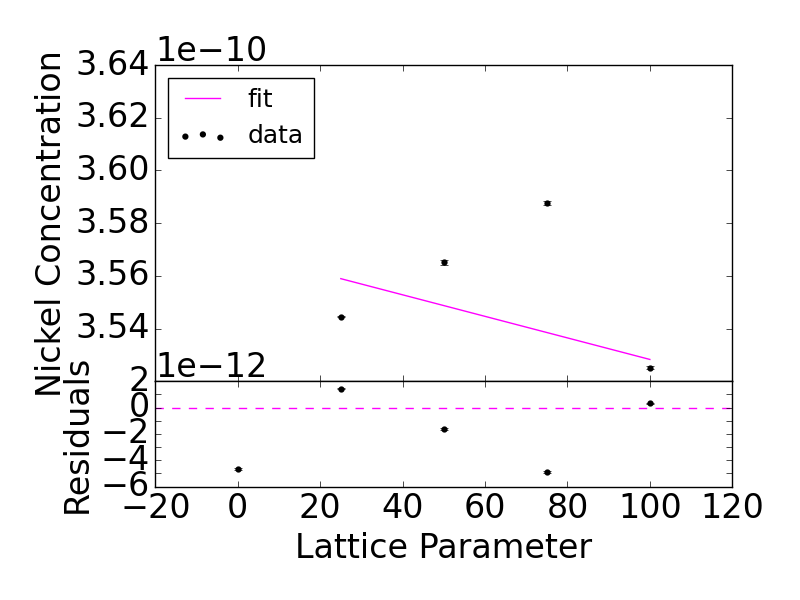
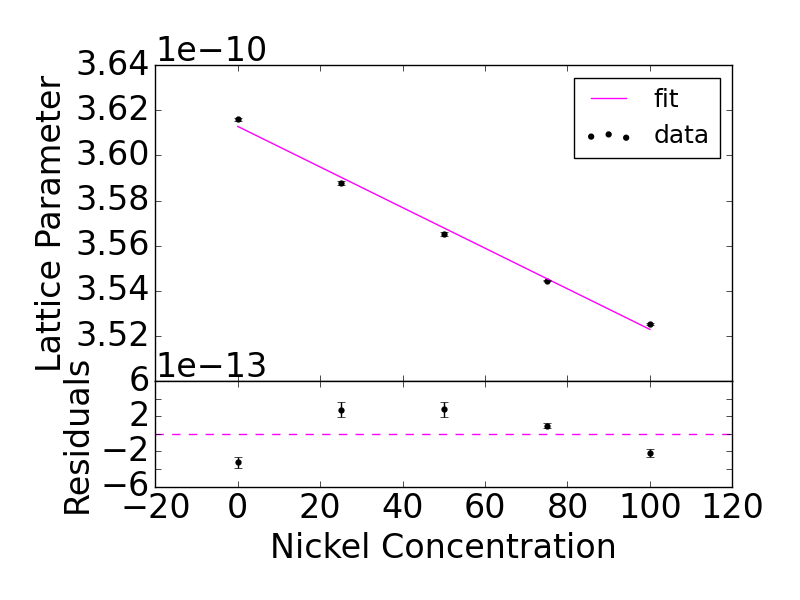
modified plotting

diff --git a/x.py b/x.py
@@ -164,21 +164,15 @@ def fitter(filename, windows):
     peaks_data['line_chi'] = chi_sqd
     return peaks_data
 
-def full_anal(path_, bins, print=False):
-    if os.path.exists(path_):
-        print("DAFUQQQQ")
-    else:
-        print("makes sense")
+def full_anal(path_, bins, print_=False):
     filenames = os.listdir(path_)
-    print(filenames)
     filenames = list(map(lambda x: x.split(".")[0], filenames))
-    print(type(filenames))
     # filenames = ["Cu_03_09_20", "Cu75Ni25","Cu50Ni50","Cu25Ni75", "Ni_03_09_20"]
     total_data = {}
     for i in range(len(filenames)):
         total_data['{}'.format(filenames[i])] = (fitter(filenames[i], bins[i]))
     # print(total_data)
-    if print:
+    if print_:
         try:
             import pprint 
             pp = pprint.PrettyPrinter(indent=4)
@@ -188,7 +182,6 @@ def full_anal(path_, bins, print=False):
     
     
     y_data = [[],[]]
-    print(type(filenames))
     for name in filenames:
         y_data[0].append(total_data[name]["line_popt"][0])
         y_data[1].append(total_data[name]["line_unc"][0])
@@ -199,22 +192,22 @@ def full_anal(path_, bins, print=False):
     #                     [361.49e-12, 352.4e-12],
     #                     ['Litterature']]
     # spify.lattice_alloy_plot(plot_data, plot_litterature, 'Cu-Ni')
-    x = np.array([25,50,75,0, 100] ,dtype = float)
+    x = np.array([0,75,50,25, 100] ,dtype = float)
     popt,pcov = curve_fit(line,x,y_data[0], p0= [1,1], sigma=y_data[1])
 
     chi_sqd = np.sum((y_data[0] -line(np.array(x), *popt))**2/y_data[1]**2)/len(y_data[0]-2)
 
     spify.residual_plot(x, y_data[0], y_data[1],
-                        line, popt, "Lattice Parameter","Nickel Concentration","Residuals", 
-                        path_[-15:] + "_vegard")
+                        line, popt,"Nickel Concentration", "Lattice Parameter","Residuals", 
+                        path_[-15:] + "_vegard", legend_loc = "upper right")
 
 if __name__ == '__main__':
-    copper_bins = [[[41.5,49],[48,56],[72,80],[88,95], [95,101]],
+    copper_bins = [[[41.5,45.5],[48,53],[72,77],[88,93], [93,98]],
+            [[41.5,49],[48,56],[72,80],[88,95], [95,101]],
             [[41.5,48],[48,56],[72,80],[88,95], [94,100]],
             [[41.5,47],[48,56],[72,80],[87,94], [95,99]],
-            [[41.5,45.5],[48,53],[72,77],[88,93], [93,98]],
             [[41.5,50],[48,56],[72,80],[90,96], [97,101]]]
-    full_anal('X-Ray/data/copper_nickel_series', copper_bins, print=True)
+    full_anal('X-Ray/data/copper_nickel_series', copper_bins, print_=True)
     
 
 

diff --git a/spify.py b/spify.py
@@ -2,7 +2,7 @@ import matplotlib.pyplot as plt
 import numpy as np
 
 
-def residual_plot(x,data,noise,func,params, xlabel, ylabel1,ylabel2, filename, renorm = False):
+def residual_plot(x,data,noise,func,params, xlabel, ylabel1,ylabel2, filename, renorm = False, legend_loc = 'upper left'):
     #get spify
     plt.clf()
     plt.rcParams.update({'font.size': 24})
@@ -27,7 +27,7 @@ def residual_plot(x,data,noise,func,params, xlabel, ylabel1,ylabel2, filename, r
     axs[0].scatter(x, data, label="data", marker=".", s=25, c="black", linewidth=2)
     axs[0].errorbar(x, data, yerr = noise, linestyle="", c="black")
     
-    axs[0].legend(loc = 'upper left', fontsize = 18)
+    axs[0].legend(loc = legend_loc, fontsize = 18)
     axs[1].scatter(x, y_pred-data, marker=".", s=25, c="black" , linewidth= 2)
     axs[1].errorbar(x, y_pred-data, yerr = noise, linestyle="", c="black")
     axs[1].axhline(y=0,c="magenta", linestyle="--")

diff --git a/Archive/Scattering/scripts/gaussian_fitter.py b/Archive/Scattering/scripts/gaussian_fitter.py
@@ -83,7 +83,7 @@ def reverse_line(x,a,b):
 def line(x,a,b):
     return a*x+b
 
-def line_fit(points_y, litterature, angle, plot = True):
+def line_fit(points_y, litterature, angle, plot = True, legend_location = ):
     '''
     Takes in
     points_y: calibration data and uncertainty
@@ -113,7 +113,7 @@ def line_fit(points_y, litterature, angle, plot = True):
                      (litterature[0][2]-40, points_y[:,0][2]-100),(litterature[0][0], points_y[:,0][0]-50)]
         for i, txt in enumerate(n):
             axs[0].annotate(txt, positions[i], fontsize=14)
-        axs[0].legend(loc = 'upper left', fontsize = 14)
+        axs[0].legend(loc = legend_location, fontsize = 14)
         #plot the residuals
         linspace = np.linspace(np.min(litterature[0]),np.max(litterature[0]),1000)
         axs[1].scatter(litterature[0],points_y[:,0]-reverse_line(litterature[0], *popt),  marker = '.')
